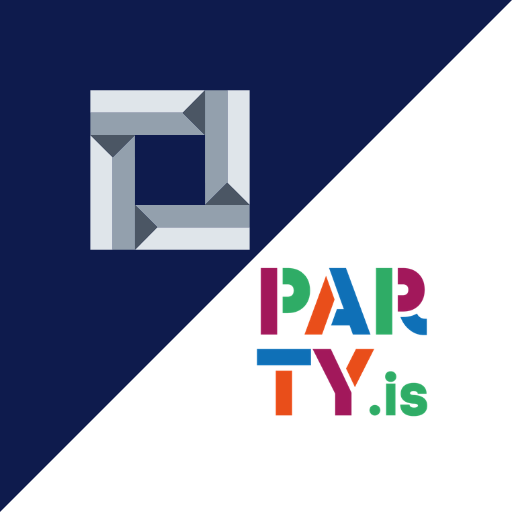
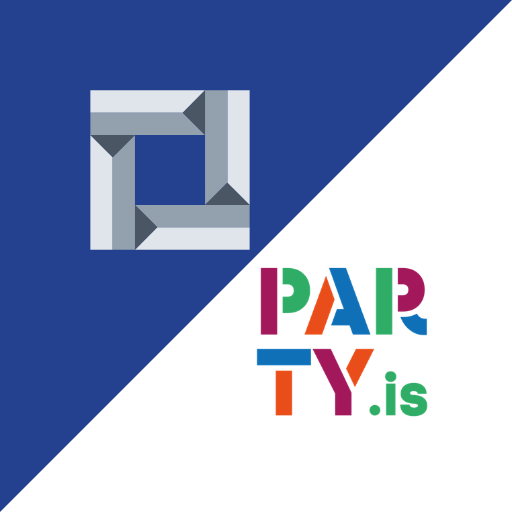
2.10.1: party.is – ljósblárri grunnur (#24418F / #EEF3FE) og merki án hvíts bakgrunns
Claude-Session: https://claude.ai/code/session_01NhUccGStRqMU7uEcn4Gtag

diff --git a/party/utlit.css b/party/utlit.css
@@ -1,15 +1,15 @@
-/* Útlit uppsetningar party.is – litir af party.is og merkinu: dökkblár #0E1B4D, blár #4770DB, vínrauður #A3195B,
+/* Útlit uppsetningar party.is – litir af party.is og merkinu: grunnblár #24418F, dökkblár #0E1B4D, blár #4770DB, vínrauður #A3195B,
    grænn #2EAE6B, appelsínugulur #E8501E, ljós #F7F7F7. Kemur á eftir brand.css og gengur framar henni. */
 :root, :root[data-theme="dark"], :root[data-theme="dark"][data-variant]{
-  --bg:#0E1B4D; --surface:#14225A; --ink:#EEF1FB; --muted:#A3AEDA; --line:#22306A;
-  --accent:#8EA8F0; --accent-soft:#1E2D68; --on-accent:#0E1B4D; --hi:#8EA8F0; --on-hi:#0E1B4D;
-  --b0:#17255E; --b1:#1E2D68; --b2:#4770DB; --b3:#A3AEDA; --b4:#EEF1FB;
-  --t0:#C9D3F5; --t1:#EEF1FB; --t2:#FFFFFF; --t3:#0E1B4D; --t4:#0E1B4D;
-  --raise:#17255E; --raise2:#1E2D68; --hover:#152358; --sheet:#132157; --field:#111E52; --border2:#4770DB; --bar0:#1E2D68;
-  --late:#F08AB5; --late-soft:#3A1A3A; --crit:#F08AB5;
+  --bg:#24418F; --surface:#2B4A9C; --ink:#F2F5FD; --muted:#BCC8EE; --line:#3A58A8;
+  --accent:#A9BEF5; --accent-soft:#3352A6; --on-accent:#16295E; --hi:#A9BEF5; --on-hi:#16295E;
+  --b0:#2D4C9F; --b1:#3352A6; --b2:#6F8FE6; --b3:#BCC8EE; --b4:#F2F5FD;
+  --t0:#D6DEF8; --t1:#F2F5FD; --t2:#FFFFFF; --t3:#16295E; --t4:#16295E;
+  --raise:#2D4C9F; --raise2:#3352A6; --hover:#2A4797; --sheet:#284594; --field:#223E8A; --border2:#6F8FE6; --bar0:#3352A6;
+  --late:#FFB3D1; --late-soft:#4A2E6E; --crit:#F08AB5;
 }
 :root[data-theme="light"], :root[data-theme="light"][data-variant]{
-  --bg:#F7F7F7; --surface:#FFFFFF; --ink:#0E1B4D; --muted:#55608C; --line:#E2E5EF;
+  --bg:#EEF3FE; --surface:#FFFFFF; --ink:#0E1B4D; --muted:#55608C; --line:#E2E5EF;
   --accent:#4770DB; --accent-soft:#E6ECFB; --on-accent:#FFFFFF; --hi:#4770DB; --on-hi:#FFFFFF;
   --b0:#EEF1FB; --b1:#E1E7FA; --b2:#AFC0F0; --b3:#4770DB; --b4:#0E1B4D;
   --t0:#4770DB; --t1:#4770DB; --t2:#0E1B4D; --t3:#FFFFFF; --t4:#FFFFFF;
@@ -17,9 +17,7 @@
   --late:#A3195B; --late-soft:#F7E3EC; --crit:#A3195B;
 }
 .fab,.btn.primary.new{background:#A3195B!important;color:#fff!important;border-color:#A3195B!important}
-#login{background:#0E1B4D!important;color:#EEF1FB}
-#login .login-in p{color:#A3AEDA}
+#login{background:#24418F!important;color:#F2F5FD}
+#login .login-in p{color:#BCC8EE}
 #login .btn.primary{background:#A3195B!important;color:#fff!important;border-color:#A3195B!important}
-#login #login-btn{color:#A3AEDA!important}
-/* Merki party.is er litríkt PNG – hvítur grunnur á dökku þema svo litirnir njóti sín */
-:root[data-theme="dark"] img.colog, :root:not([data-theme="light"]) #login-colog{background:#fff;border-radius:8px;padding:2px}
+#login #login-btn{color:#BCC8EE!important}

diff --git a/sw.js b/sw.js
@@ -1,6 +1,6 @@
 // Þjónustuskrifta (service worker): geymir appið á tækinu svo það opnist hratt og virki án nets.
 // Hækkaðu VERSION þegar eitthvað breytist, þá sækja tækin nýju útgáfuna.
-const VERSION = "atrium-2.10.0"; // sama og APP_VERSION í app.html
+const VERSION = "atrium-2.10.1"; // sama og APP_VERSION í app.html
 const SHELL = ["./", "index.html", "app.css", "app-grunnur.js", "app-listar.js", "app-skyrslur.js", "app-sidur.js", "app-stillingar.js", "app-form.js", "app-breyta.js", "firebase.js", "firebase-config.js", "xlsx.js", "skjalagerd.js", "icons/doc-logo.png", "ms.js", "ms-app.js", "verdskra.js", "reikn.js", "sala.js", "prufugogn.js", "deildir.js", "skjol.js", "postur.js", "spjall.js", "heim.js", "skjalasafn.js", "adgangur.js", "notendur.js", "gogn.js", "kjarni.js", "demo.js",
   "aera/index.html", "aera/fyrirtaeki.js", "aera/manifest.webmanifest", "sonik/index.html", "sonik/fyrirtaeki.js", "sonik/manifest.webmanifest", "sonik/utlit.css", "sonik/merki-ljos.svg", "sonik/merki-dokk.svg", "aera/icon-192.png", "aera/apple-touch-icon.png", "sonik/icon-192.png", "sonik/apple-touch-icon.png", "party/index.html", "party/fyrirtaeki.js", "party/manifest.webmanifest", "party/utlit.css", "party/merki.png", "party/icon-192.png", "party/apple-touch-icon.png",
   "icons/atrium-icon-192.png", "icons/atrium-icon-512.png", "icons/atrium-icon-maskable-512.png", "icons/atrium-apple-touch-icon.png", "icons/atrium-favicon.svg", "icons/atrium-haus-ljos.svg", "icons/atrium-haus-dokk.svg", "icons/atrium-ordmerki-dokk.svg", "icons/sig-logo.png", "icons/atrium-merki-ljos.svg", "icons/atrium-merki-dokk.svg",

diff --git a/aera/index.html b/aera/index.html
@@ -42,7 +42,7 @@ if(window.ORG&&ORG.lsForskeyti){try{const L=window.localStorage,p=ORG.lsForskeyt
 <script src="xlsx.js"></script>
 <script src="skjalagerd.js"></script>
 <script type="module">const ROT=f=>new URL(f,document.baseURI).href; /* full slóð: Safari tekur ekki mið af <base> í import() (2.8.2) */ if(window.AERA_DEMO) import(ROT("demo.js")); else if(window.ORG.firebase) import(ROT("firebase.js")); else { /* uppsetning án gagnagrunns (enn sem komið er) */ document.getElementById("login").hidden=false; document.getElementById("login-msg").textContent="Þessi uppsetning er ekki enn tengd gagnagrunni. Sýniútgáfan virkar: bættu ?demo aftan við slóðina."; document.getElementById("login-ms").disabled=true; }</script>
-<script>const APP_VERSION="2.10.0"; // hækka hér og VERSION í sw.js (alltaf eins)</script>
+<script>const APP_VERSION="2.10.1"; // hækka hér og VERSION í sw.js (alltaf eins)</script>
 <script src="app-grunnur.js"></script>
 <script src="app-listar.js"></script>
 <script src="app-skyrslur.js"></script>

diff --git a/app.html b/app.html
@@ -42,7 +42,7 @@ if(window.ORG&&ORG.lsForskeyti){try{const L=window.localStorage,p=ORG.lsForskeyt
 <script src="xlsx.js"></script>
 <script src="skjalagerd.js"></script>
 <script type="module">const ROT=f=>new URL(f,document.baseURI).href; /* full slóð: Safari tekur ekki mið af <base> í import() (2.8.2) */ if(window.AERA_DEMO) import(ROT("demo.js")); else if(window.ORG.firebase) import(ROT("firebase.js")); else { /* uppsetning án gagnagrunns (enn sem komið er) */ document.getElementById("login").hidden=false; document.getElementById("login-msg").textContent="Þessi uppsetning er ekki enn tengd gagnagrunni. Sýniútgáfan virkar: bættu ?demo aftan við slóðina."; document.getElementById("login-ms").disabled=true; }</script>
-<script>const APP_VERSION="2.10.0"; // hækka hér og VERSION í sw.js (alltaf eins)</script>
+<script>const APP_VERSION="2.10.1"; // hækka hér og VERSION í sw.js (alltaf eins)</script>
 <script src="app-grunnur.js"></script>
 <script src="app-listar.js"></script>
 <script src="app-skyrslur.js"></script>

diff --git a/party/index.html b/party/index.html
@@ -43,7 +43,7 @@ if(window.ORG&&ORG.lsForskeyti){try{const L=window.localStorage,p=ORG.lsForskeyt
 <script src="xlsx.js"></script>
 <script src="skjalagerd.js"></script>
 <script type="module">const ROT=f=>new URL(f,document.baseURI).href; /* full slóð: Safari tekur ekki mið af <base> í import() (2.8.2) */ if(window.AERA_DEMO) import(ROT("demo.js")); else if(window.ORG.firebase) import(ROT("firebase.js")); else { /* uppsetning án gagnagrunns (enn sem komið er) */ document.getElementById("login").hidden=false; document.getElementById("login-msg").textContent="Þessi uppsetning er ekki enn tengd gagnagrunni. Sýniútgáfan virkar: bættu ?demo aftan við slóðina."; document.getElementById("login-ms").disabled=true; }</script>
-<script>const APP_VERSION="2.10.0"; // hækka hér og VERSION í sw.js (alltaf eins)</script>
+<script>const APP_VERSION="2.10.1"; // hækka hér og VERSION í sw.js (alltaf eins)</script>
 <script src="app-grunnur.js"></script>
 <script src="app-listar.js"></script>
 <script src="app-skyrslur.js"></script>

diff --git a/sonik/index.html b/sonik/index.html
@@ -43,7 +43,7 @@ if(window.ORG&&ORG.lsForskeyti){try{const L=window.localStorage,p=ORG.lsForskeyt
 <script src="xlsx.js"></script>
 <script src="skjalagerd.js"></script>
 <script type="module">const ROT=f=>new URL(f,document.baseURI).href; /* full slóð: Safari tekur ekki mið af <base> í import() (2.8.2) */ if(window.AERA_DEMO) import(ROT("demo.js")); else if(window.ORG.firebase) import(ROT("firebase.js")); else { /* uppsetning án gagnagrunns (enn sem komið er) */ document.getElementById("login").hidden=false; document.getElementById("login-msg").textContent="Þessi uppsetning er ekki enn tengd gagnagrunni. Sýniútgáfan virkar: bættu ?demo aftan við slóðina."; document.getElementById("login-ms").disabled=true; }</script>
-<script>const APP_VERSION="2.10.0"; // hækka hér og VERSION í sw.js (alltaf eins)</script>
+<script>const APP_VERSION="2.10.1"; // hækka hér og VERSION í sw.js (alltaf eins)</script>
 <script src="app-grunnur.js"></script>
 <script src="app-listar.js"></script>
 <script src="app-skyrslur.js"></script>

diff --git a/party/fyrirtaeki.js b/party/fyrirtaeki.js
@@ -13,7 +13,7 @@ window.ORG = {
 
   logo: { ljos: "party/merki.png", dokk: "party/merki.png" },
   merki: { ljos: "party/merki.png", dokk: "party/merki.png" },
-  litir: { ljos: "#F7F7F7", dokk: "#0E1B4D" },   // litur stöðustiku í síma
+  litir: { ljos: "#EEF3FE", dokk: "#24418F" },   // litur stöðustiku í síma
   ms: { appNafn: "Atrium", clientId: "bc976045-0274-48bb-a5c3-3a39aa987fd0", tenant: "ed06b359-9189-4e32-aeaa-7454e6be768f" },   // til bráðabirgða: Entra-forrit AERA
 
   admin: { email: "dagur@aerastudio.is", nafn: "Dagur Fannar Möller", sk: "DFM", titillIS: "Eigandi", titillEN: "Owner" },   // til bráðabirgða

diff --git a/tools/takn.py b/tools/takn.py
@@ -11,7 +11,7 @@ ROT = os.path.dirname(os.path.dirname(os.path.abspath(__file__)))
 TAKN = {
   "aera":  {"merki": "icons/merki-dokk.svg", "bg": "#121416", "litur": "#2F3742"},
   "sonik": {"merki": "sonik/merki-dokk.svg", "bg": "#0C2127", "litur": "#2A7289"},
-  "party": {"merki": "party/merki.png", "bg": "#0E1B4D", "litur": "#FFFFFF"},
+  "party": {"merki": "party/merki.png", "bg": "#24418F", "litur": "#FFFFFF"},
 }
 ATR = "icons/atrium-merki-dokk.svg"
 def inner(p):
